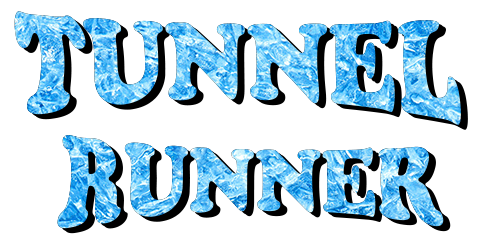
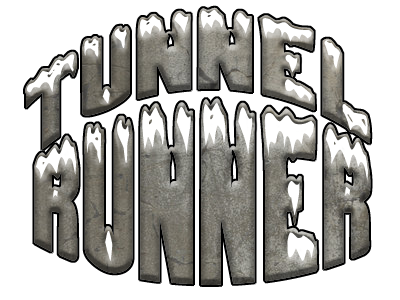
Updated title and buttons

diff --git a/TunnelRunner/TunnelRunner/Game1.cs b/TunnelRunner/TunnelRunner/Game1.cs
@@ -35,6 +35,7 @@ namespace TunnelRunner
         Vector2 backgroundPos;
         Vector2 normanPos;
         Vector2 katePos;
+        Vector2 titlePos;
 
         // GameState button textures
         Texture2D startButton;
@@ -94,6 +95,7 @@ namespace TunnelRunner
             katePos = new Vector2(400, (GraphicsDevice.Viewport.Height / 2) - 50);
 
             //there is 25 pix gap in between each button
+            titlePos = new Vector2(GraphicsDevice.Viewport.Width / 2, 350);
             startButtPos = new Vector2(12,300);
             charaSelButtPos = new Vector2(187, 300);
             optionButtPos = new Vector2( 362, 300);
@@ -131,7 +133,7 @@ namespace TunnelRunner
             optionButton = Content.Load<Texture2D>("Buttons/Options");
             exitButton = Content.Load<Texture2D>("Buttons/Exit");
             charaSelButt = Content.Load<Texture2D>("Buttons/Selection");
-            background = Content.Load<Texture2D>("Tunnel Walls/Wall1");
+            background = Content.Load<Texture2D>("background");
             kateSprite = Content.Load<Texture2D>("kateSprite");
             kate = Content.Load<Texture2D>("kate");
             norman = Content.Load<Texture2D>("norman");
